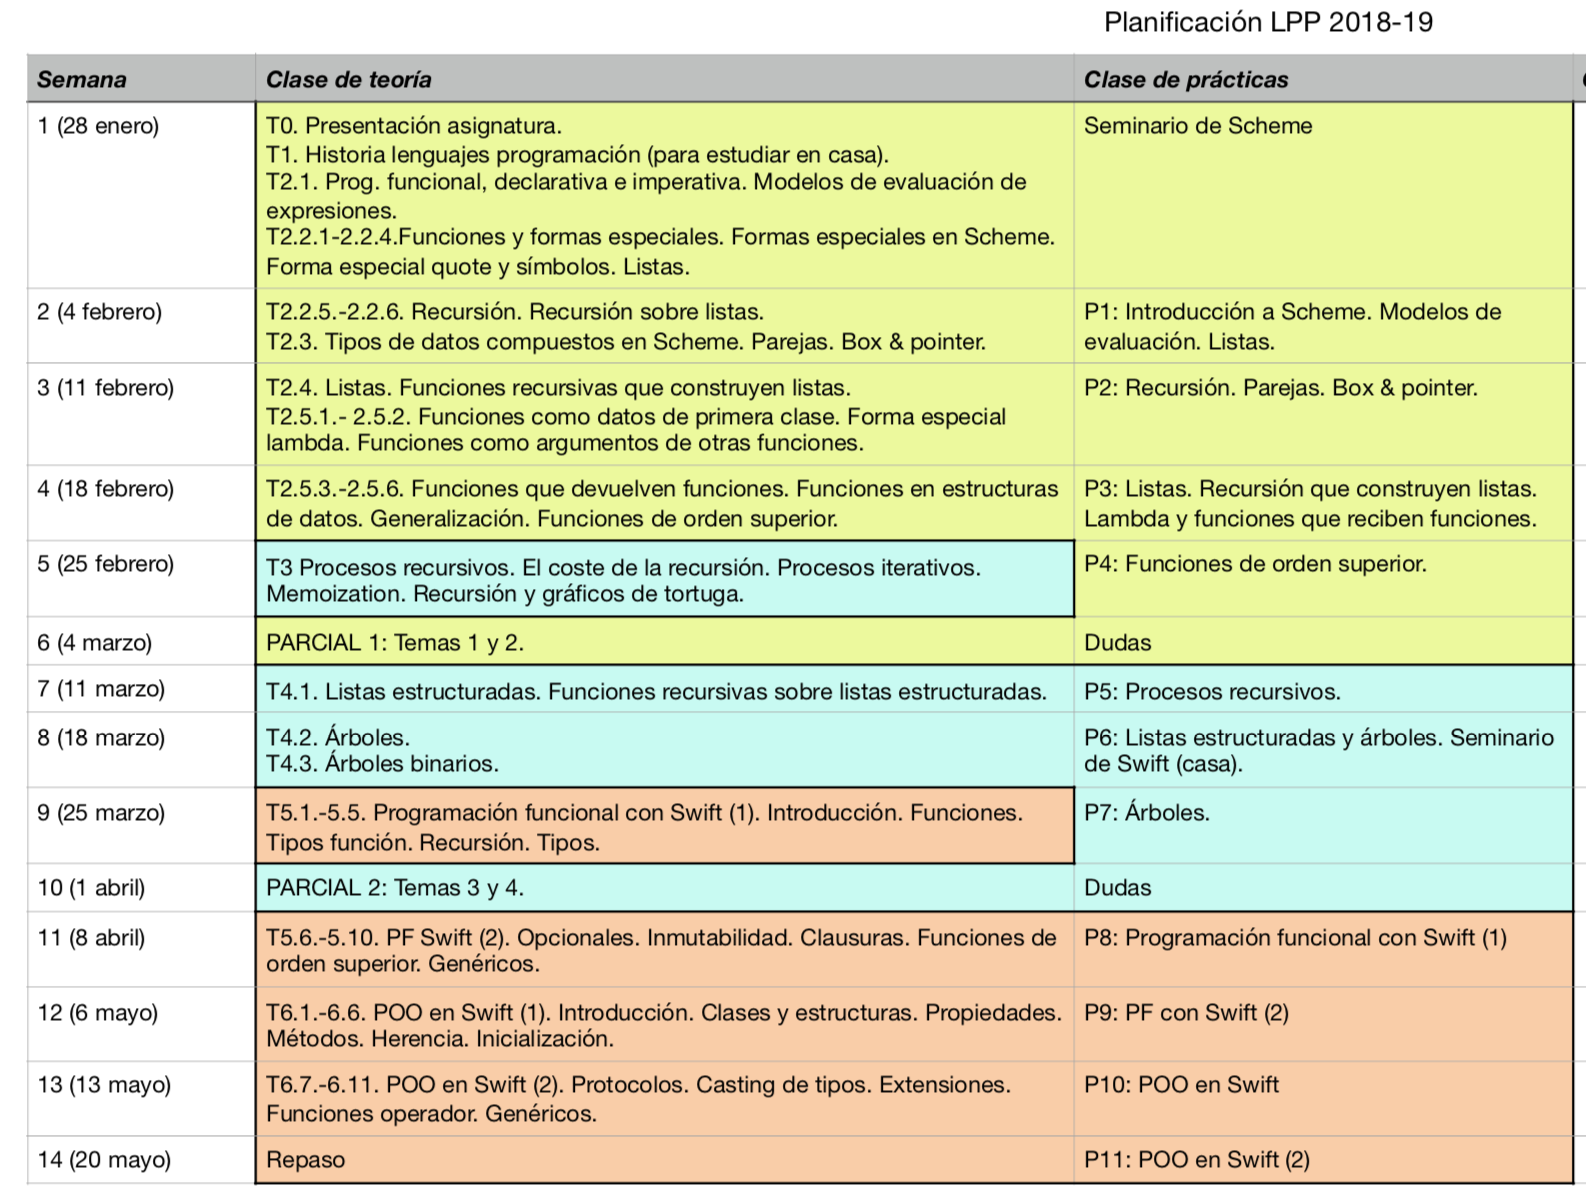
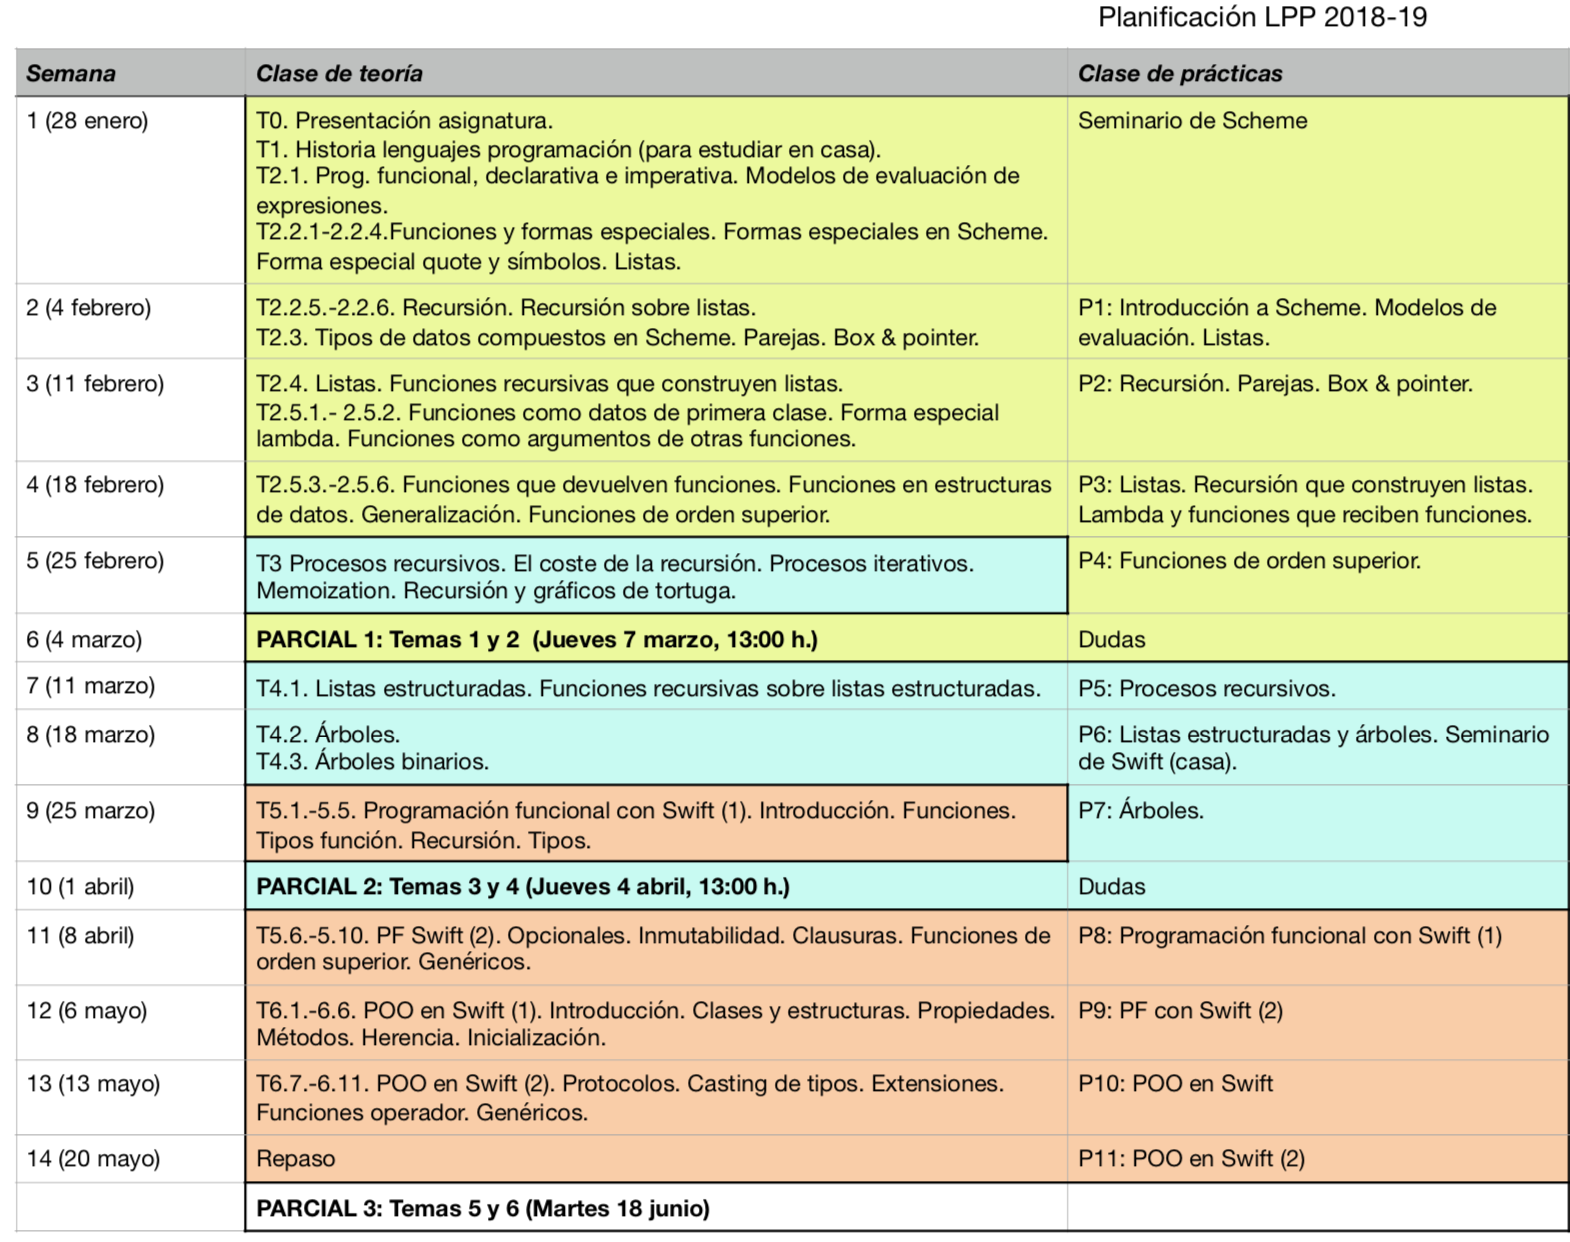
Añadidas fechas parciales y correcciones

diff --git a/docs/teoria/tema02-programacion-funcional/tema02-programacion-funcional.md b/docs/teoria/tema02-programacion-funcional/tema02-programacion-funcional.md
@@ -1090,7 +1090,7 @@ aplicativo ya visto:
 Las *formas especiales* son expresiones primitivas de Scheme que
 tienen una forma de evaluarse propia, distinta de las funciones. 
 
-### Formas especiales en Scheme: define, if, cond, quote
+### Formas especiales en Scheme: define, if, cond
 
 Veamos la forma de evaluar las distintas formas especiales en
 Scheme. En estas formas especiales no se aplica el modelo de
@@ -1208,7 +1208,7 @@ de la semántica:
 ;; es cierta se devuelve la cadena "ninguna condición es cierta".
 ```
 
-#### Forma especial `quote` y símbolos
+### Forma especial `quote` y símbolos
 
 **Sintaxis**
 
@@ -1295,6 +1295,14 @@ de las funciones como objetos primitivos en Scheme):
 #<procedure:cuadrado>
 ```
 
+Los símbolos son tipos primitivos del lenguaje: pueden pasarse como
+parámetros o ligarse a variables.
+
+```
+> (define x 'hola)
+> x
+hola
+```
 
 ### Listas
 
